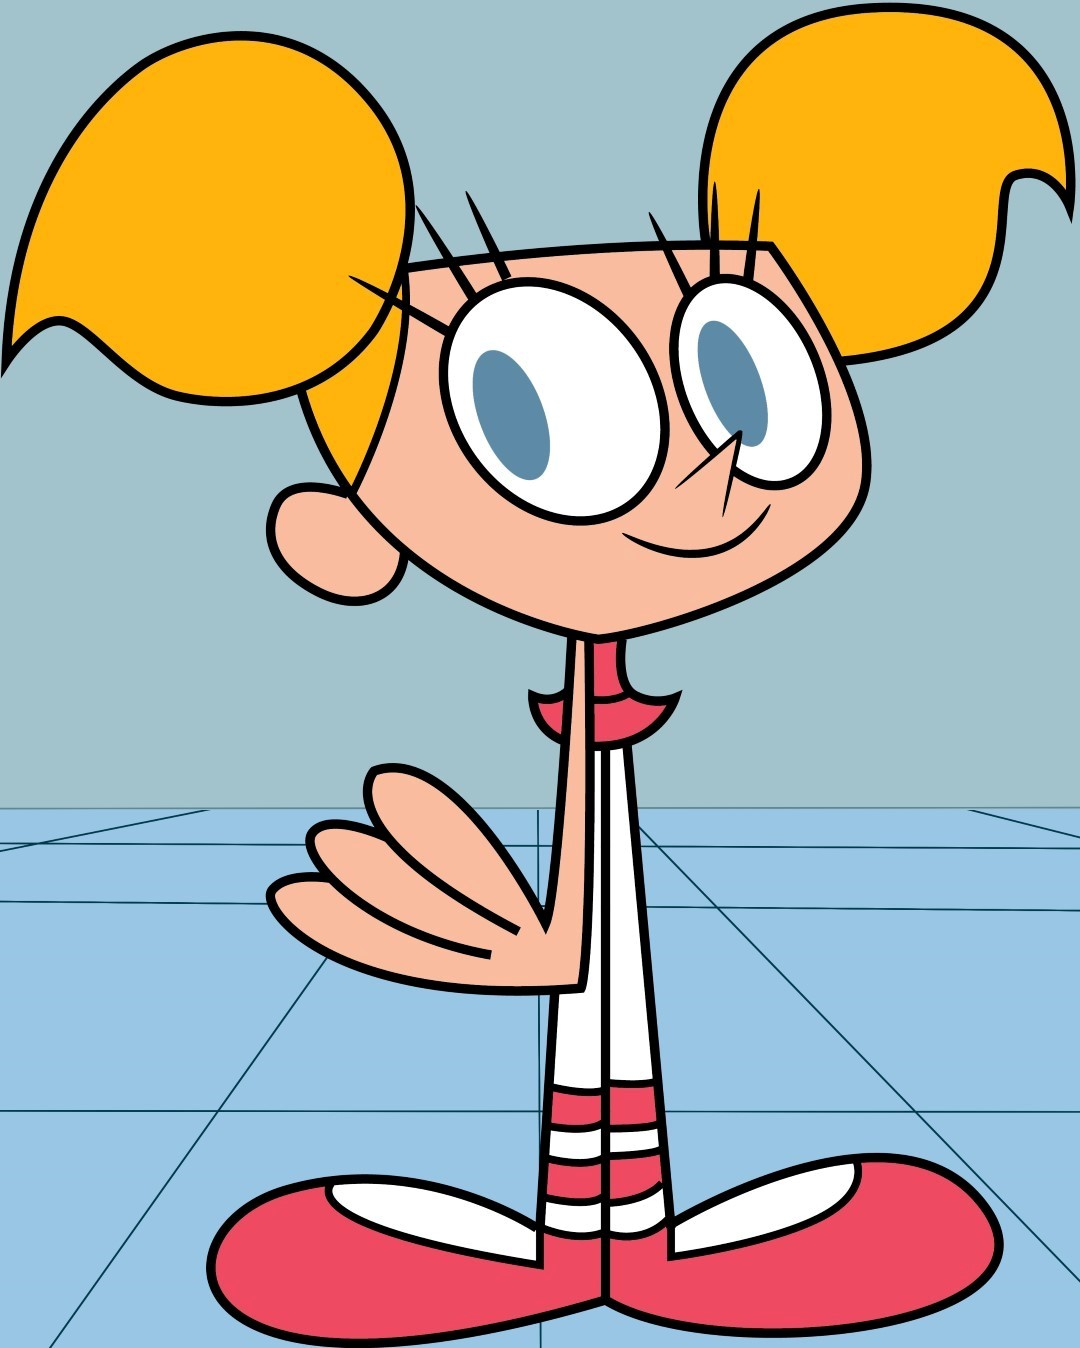
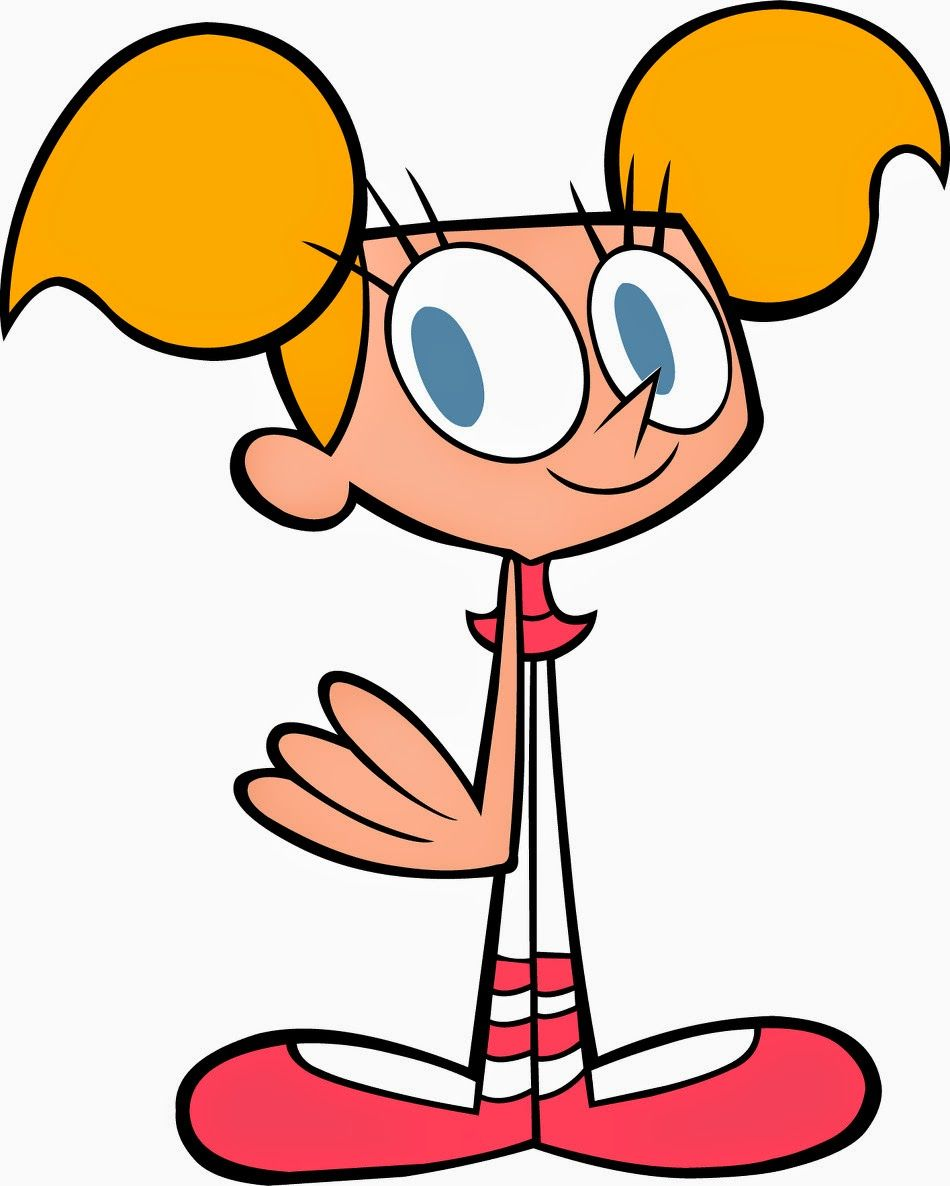
Improved styling with background

diff --git a/src/index.css b/src/index.css
@@ -20,3 +20,11 @@ body {
    height:100%;
 }
 
+html {
+  background: url(/assets/img/bg.png) no-repeat center center fixed; 
+  -webkit-background-size: cover;
+  -moz-background-size: cover;
+  -o-background-size: cover;
+  background-size: cover;
+}
+

diff --git a/src/components/Character/Character.css b/src/components/Character/Character.css
@@ -4,6 +4,9 @@
     box-shadow: 0 3px 6px rgba(0,0,0,.16), 0 3px 6px rgba(0,0,0,.23);
     cursor: pointer;
     margin: 10px;
+    background-color:white;
+    border-radius: 6px;
+    padding:8px;
   }
 
 .shake {

diff --git a/src/index.js b/src/index.js
@@ -1,5 +1,6 @@
 import React from 'react';
 import ReactDOM from 'react-dom';
 import Main from './components/Main/Main.js';
+import "./index.css"
 
 ReactDOM.render(<Main />, document.getElementById('root'));
